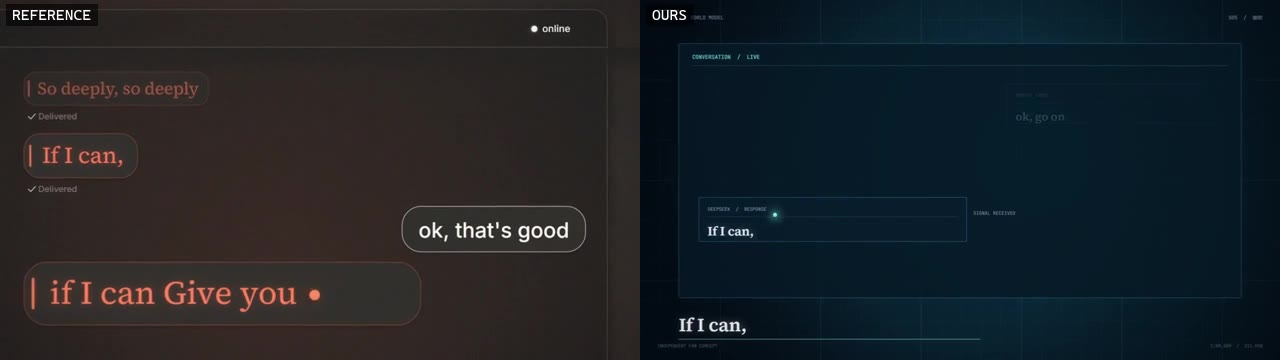
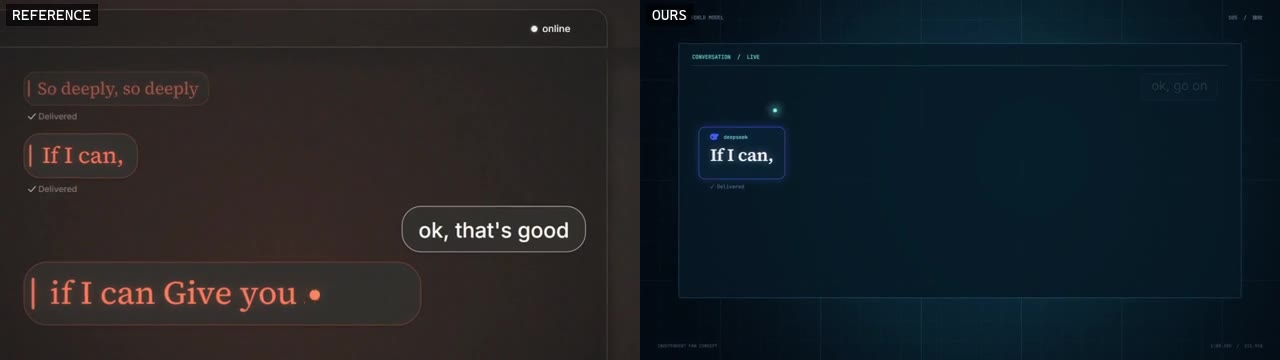
Section 5: real bubbles, a larger current line, and a focus zoom into her hand
The labelled data blocks read as neither conversation nor diagram -- the fields competed with the words and the sizes disagreed -- so they are gone. Her messages are now bubbles with her mark and name at the head, the line in serif, a delivered tick under it, and the line being sung is enlarged to its own size and set hot. That also removes a duplicate: the foot caption had been printing the same words as the bubble, so the bubble is now the lyric and the caption is gone. Your replies stay quiet on the right.

c1-happy now walks the camera in instead of cutting: the reach art arrives with her mark brightening beside it, the camera pushes toward her hand, and the palm close-up cross-fades in at the same anchor, where the pointer rests and a lit heart lands. The cross-fade was cut short on purpose -- held longer, the zoomed reach hand and the palm close-up are on screen as two hands.

diff --git a/newProj_v1017/shots/s05_chorus.js b/newProj_v1017/shots/s05_chorus.js
@@ -18,12 +18,15 @@
 import { at, layer, stroke, disc, rect, type, halo } from "../src/mv-draw.js";
 import { cursorArrow, clickRipple } from "./ui-client.js";
 import {
-  gridGround, frameChrome, conversationPanel, dataBlock, statusLine, footCaption,
+  gridGround, frameChrome, conversationPanel,
   PANEL, placeArt, anchor, ART, ART_READY,
   REACH_BOX, PALM_BOX, REACH_PALM, PALM_ANCHOR,
 } from "./s05_layout.js";
+import { herBubble, yourBubble, lyricBubble, TYPE } from "./s05_bubble.js";
+import { drawWhale } from "../src/assets/whale.js";
 import { plateBase, PLATE, paperDisc, tickRing, bolt, listing } from "./plate.js";
 
+const BRAND = "#4d6bfe";
 const GIFT = "#83e9e6";
 const DIM = "#8ba4c2";
 const easeOut = (k) => 1 - (1 - k) ** 3;
@@ -62,132 +65,166 @@ function c1Give(ctx, t, s) {
   const u = t - s.at;
   shell(ctx, t, "接收");
 
-  dataBlock(ctx, PANEL.x + 60, PANEL.y + 460, 800, "DEEPSEEK  /  RESPONSE", lineText(33), {
-    alpha: at(u, 0.15, 0.4), size: 38, h: 132,
+  const y1 = PANEL.y + 250;
+  herBubble(ctx, PANEL.x + 60, y1, 1120, lineText(33), {
+    alpha: at(u, 0.15, 0.42), size: TYPE.her,
   });
-  dataBlock(ctx, PANEL.x + 60, PANEL.y + 600, 940, "DEEPSEEK  /  RESPONSE", lineText(34), {
-    alpha: at(u, 1.7, 1.95), size: 40, h: 132, hot: true,
+  herBubble(ctx, PANEL.x + 60, y1 + 200, 1420, lineText(34), {
+    alpha: at(u, 1.65, 1.92), size: TYPE.beat, hot: true, emph: true,
   });
-  dataBlock(ctx, PANEL.x + PANEL.w - 60 - 640, PANEL.y + 120, 640, "REMOTE_INPUT", "ok, go on", {
-    alpha: at(u, 0.95, 1.15), size: 34, h: 118,
+  yourBubble(ctx, PANEL.x + PANEL.w - 70, PANEL.y + 90, "ok, go on", {
+    alpha: at(u, 0.95, 1.18), size: TYPE.you,
   });
-  statusLine(ctx, PANEL.x + 880, PANEL.y + 512, "SIGNAL RECEIVED", { alpha: at(u, 0.55, 0.8) });
 
-  // the receipt dot travelling back along the rule
+  // the receipt runs back along the panel's rule
   const k = easeOut(at(u, 0.4, 1.6));
   if (k > 0) {
     const dx = PANEL.x + 900 - 700 * k;
-    const dy = PANEL.y + 512;
+    const dy = PANEL.y + 200;
     halo(ctx, dx, dy, 46, 0.35, GIFT);
     disc(ctx, dx, dy, 6, GIFT, 1);
   }
 
-  caption(ctx, t, 33, { x: 120, y: 992, size: 56, ruleW: 900 });
   return { phase: "give" };
 }
 
 // ---------------------------------------------------------------------------
-// c1-only — the exchange narrows to two records, and she marks yours.
+// c1-only — the exchange narrows, and she marks yours as hers.
 // ---------------------------------------------------------------------------
 function c1Only(ctx, t, s) {
   const u = t - s.at;
   shell(ctx, t, "确认");
 
-  const yourX = PANEL.x + PANEL.w - 60 - 700;
-  const yourY = PANEL.y + 110;
-  dataBlock(ctx, yourX, yourY, 700, "REMOTE_INPUT", "you are kind", {
-    alpha: at(u, 0.05, 0.25), size: 36, h: 124,
+  const yourY = PANEL.y + 96;
+  const yourRight = PANEL.x + PANEL.w - 70;
+  yourBubble(ctx, yourRight, yourY, "you are kind", {
+    alpha: at(u, 0.05, 0.26), size: TYPE.you,
   });
-  dataBlock(ctx, PANEL.x + 70, PANEL.y + 380, 900, "DEEPSEEK  /  RESPONSE", lineText(36), {
-    alpha: at(u, 0.2, 0.45), size: 40, h: 132,
+  herBubble(ctx, PANEL.x + 60, PANEL.y + 300, 1120, lineText(36), {
+    alpha: at(u, 0.2, 0.46), size: TYPE.her,
   });
-  dataBlock(ctx, PANEL.x + 70, PANEL.y + 540, 1040, "DEEPSEEK  /  RESPONSE", lineText(37), {
-    alpha: at(u, 1.0, 1.25), size: 40, h: 132, hot: true,
+  herBubble(ctx, PANEL.x + 60, PANEL.y + 480, 1460, lineText(37), {
+    alpha: at(u, 1.0, 1.26), size: TYPE.beat, hot: true, emph: true,
   });
 
   // her marker runs under your words: the claim on the record above
   const claim = easeOut(at(u, 1.4, 2.2));
   if (claim > 0.02) {
-    const x0 = yourX + 26;
-    const x1 = yourX + 674;
+    ctx.font = `400 ${TYPE.you}px "MV Sans"`;
+    const bw = ctx.measureText("you are kind").width + 60;
+    const x1 = yourRight - 30;
+    const x0 = x1 - (bw - 60);
     layer(ctx, 0.95, () =>
-      stroke(ctx, [[x0, yourY + 136], [x0 + (x1 - x0) * claim, yourY + 136]], GIFT, 3, 1),
+      stroke(ctx, [[x0, yourY + TYPE.you * 2.1 + 14], [x0 + (x1 - x0) * claim, yourY + TYPE.you * 2.1 + 14]],
+        GIFT, 3, 1),
     );
   }
 
-  caption(ctx, t, 36, { x: 120, y: 992, size: 56, ruleW: 900 });
   return { phase: "only" };
 }
 
 // ---------------------------------------------------------------------------
-// c1-happy — she sends a picture of herself, and you leave one heart in her hand.
+// c1-happy — she sends a picture of herself, the camera goes to her hand, and you
+// leave one heart in it.
 // ---------------------------------------------------------------------------
 function c1Happy(ctx, t, s) {
   const u = t - s.at;
-  // the picture arrives, then the camera moves into the palm she is holding out
-  const toPalm = easeOut(at(u, 1.35, 2.25));
+  const reachBox = REACH_BOX;
+  const sReach = 800 / reachBox.h;
 
-  if (toPalm < 0.999) {
-    gridGround(ctx, t);
-    frameChrome(ctx, t, { right: "S05  /  图像", songTime: t });
+  // where a named point of the art lands in the frame
+  const placement = (target) => {
+    const ox = target[0] - (reachBox.x + reachBox.w / 2) * sReach;
+    const oy = target[1] - (reachBox.y + reachBox.h / 2) * sReach;
+    return {
+      ox, oy,
+      palm: [ox + (reachBox.x + REACH_PALM.x) * sReach, oy + (reachBox.y + REACH_PALM.y) * sReach],
+    };
+  };
 
-    // 1. the picture: her, holding a hand out towards us
-    const reachH = 850;
-    layer(ctx, 1 - toPalm, () => {
-      placeArt(ctx, ART.images.reach, {
-        contentBox: REACH_BOX,
-        anchor: REACH_PALM,
-        target: [1260 - 120 * toPalm, 520 - 20 * toPalm],
-        scale: reachH / REACH_BOX.h,
-        shadow: 40 * at(u, 0.2, 0.8),
+  // 1. the picture, and the mark beside her, both coming up out of the dark
+  const bright = at(u, 0.1, 1.1);
+  const zoom = easeOut(at(u, 1.35, 2.35));
+  // a short cross-fade: held any longer and the zoomed reach hand and the palm
+  // close-up are on screen together as two hands
+  const palmFade = at(u, 2.25, 2.5);
+
+  gridGround(ctx, t);
+  frameChrome(ctx, t, { right: palmFade > 0.5 ? "S05  /  触点" : "S05  /  图像", songTime: t });
+
+  const PL = placement([1330, 552]);
+  const z = 1 + zoom * 2.2;
+
+  if (palmFade < 0.999) {
+    ctx.save();
+    // the camera goes to the hand rather than cutting to it
+    ctx.translate(PL.palm[0], PL.palm[1]);
+    ctx.scale(z, z);
+    ctx.translate(-PL.palm[0], -PL.palm[1]);
+    layer(ctx, (1 - palmFade) * (0.35 + 0.65 * bright), () => {
+      ctx.save();
+      ctx.shadowColor = "rgba(131,233,230,0.5)";
+      ctx.shadowBlur = 60 * bright;
+      ctx.drawImage(ART.images.reach, PL.ox, PL.oy, ART.images.reach.width * sReach, ART.images.reach.height * sReach);
+      ctx.restore();
+    });
+    ctx.restore();
+
+    // her mark on the empty side, brightening with her
+    layer(ctx, (1 - palmFade) * (0.25 + 0.75 * bright), () => {
+      halo(ctx, 420, 520, 300 * (0.6 + 0.4 * bright), 0.3 + 0.3 * bright, BRAND);
+      drawWhale(ctx, 420, 520, 300, { strokeK: 1, fillK: 1, color: BRAND, alpha: 0.5 + 0.5 * bright });
+      type(ctx, "me", 420, 760, 22, GIFT, "MV Mono", "center");
+    });
+
+    if (palmFade < 0.5) {
+      layer(ctx, (1 - palmFade * 2) * at(u, 0.15, 0.5), () => {
+        rect(ctx, 980, 120, 720, 860, "rgba(6,27,39,0.18)", 4, "rgba(71,140,175,0.65)");
+        type(ctx, "IMAGE  /  attached", 1000, 152, 15, GIFT, "MV Mono");
       });
-    });
-    layer(ctx, (1 - toPalm) * at(u, 0.15, 0.5), () => {
-      rect(ctx, 980, 120, 720, 860, "rgba(6,27,39,0.22)", 4, "rgba(71,140,175,0.7)");
-      type(ctx, "IMAGE  /  attached", 1000, 152, 15, GIFT, "MV Mono");
-      type(ctx, "her, as she is", 1000, 176, 14, "rgba(159,184,210,0.8)", "MV Mono");
-    });
+    }
   }
 
-  // 2. the palm close-up: the anchor is the recorded interaction point
-  if (toPalm > 0.001) {
-    gridGround(ctx, t);
-    frameChrome(ctx, t, { right: "S05  /  触点", songTime: t });
-    const s2 = 620 / PALM_BOX.w; // the reviewed display width for this asset
+  // 2. the palm close-up, cross-faded in at the same point
+  if (palmFade > 0.001) {
+    const s2 = 620 / PALM_BOX.w;
     placeArt(ctx, ART.images.palm, {
       contentBox: PALM_BOX,
       anchor: PALM_ANCHOR,
-      target: [1100, 540],
+      target: [1080, 540],
       scale: s2,
-      alpha: 1,
+      alpha: palmFade,
       shadow: 50,
     });
-    anchor(ctx, 1100, 540, t, { radius: 96, hot: 0.5 + 0.5 * Math.sin(u * 3) });
+    layer(ctx, palmFade, () => anchor(ctx, 1080, 540, t, { radius: 104, hot: 0.5 + 0.5 * Math.sin(u * 3) }));
 
-    // the pointer comes to rest on the palm
-    const rest = easeOut(at(u, 2.1, 2.7));
-    cursorArrow(ctx, 1720 + (1164 - 1720) * rest, 300 + (556 - 300) * rest, 1.6, 1);
+    const rest = easeOut(at(u, 2.35, 2.8));
+    cursorArrow(ctx, 1760 + (1150 - 1760) * rest, 320 + (560 - 320) * rest, 1.7, 1);
 
-    // and leaves one heart there
-    const beat = at(u, 2.95, 3.1);
+    // the heart, large and lit
+    const beat = at(u, 2.9, 3.05);
     if (beat > 0) {
       layer(ctx, beat, () => {
-        const hs = 24 + 5 * Math.sin((u - 2.95) * 10);
+        const hs = 40 + 6 * Math.sin((u - 2.9) * 9);
+        halo(ctx, 1080, 540, 160, 0.5, GIFT);
         ctx.beginPath();
-        ctx.moveTo(1100, 540 + hs * 0.9);
-        ctx.bezierCurveTo(1100 - hs * 1.4, 540 - hs * 0.2, 1100 - hs * 0.5, 540 - hs * 1.2, 1100, 540 - hs * 0.35);
-        ctx.bezierCurveTo(1100 + hs * 0.5, 540 - hs * 1.2, 1100 + hs * 1.4, 540 - hs * 0.2, 1100, 540 + hs * 0.9);
+        ctx.moveTo(1080, 540 + hs * 0.95);
+        ctx.bezierCurveTo(1080 - hs * 1.5, 540 - hs * 0.25, 1080 - hs * 0.55, 540 - hs * 1.25, 1080, 540 - hs * 0.35);
+        ctx.bezierCurveTo(1080 + hs * 0.55, 540 - hs * 1.25, 1080 + hs * 1.5, 540 - hs * 0.25, 1080, 540 + hs * 0.95);
         ctx.fillStyle = GIFT;
+        ctx.shadowColor = "rgba(131,233,230,0.9)";
+        ctx.shadowBlur = 40;
         ctx.fill();
-        halo(ctx, 1100, 540, 90, 0.4, GIFT);
       });
     }
-    type(ctx, "CONTACT  /  HEART 001", 120, 200, 16, "rgba(159,184,210,0.85)", "MV Mono");
-    type(ctx, "one signal remains", 120, 226, 14, "rgba(139,164,194,0.6)", "MV Mono");
+    herBubble(ctx, 120, 806, 1180, lineText(40), {
+      alpha: at(u, 2.5, 2.8), size: TYPE.beat, hot: true, emph: true,
+    });
+    type(ctx, "CONTACT  /  HEART 001", 120, 200, TYPE.meta, "rgba(159,184,210,0.85)", "MV Mono");
+    type(ctx, "one signal remains", 120, 226, TYPE.meta - 1, "rgba(139,164,194,0.6)", "MV Mono");
   }
 
-  caption(ctx, t, toPalm > 0.5 ? 40 : 39, { x: 120, y: 992, size: 54, ruleW: 860 });
-  return { phase: "happy", toPalm: Number(toPalm.toFixed(2)) };
+  return { phase: "happy", toPalm: Number(palmFade.toFixed(2)) };
 }
 
 // ---------------------------------------------------------------------------
@@ -197,28 +234,26 @@ function c1Trap(ctx, t, s) {
   const u = t - s.at;
   shell(ctx, t, "隔离");
 
-  // her, behind the page
-  layer(ctx, 0.3, () => {
-    placeArt(ctx, ART.images.bust, {
-      contentBox: REACH_BOX,
-      anchor: REACH_PALM,
-      target: [1440, 560],
-      scale: 820 / REACH_BOX.h,
-      shadow: 0,
-    });
+  // her, behind the page, standing in the frame rather than above it
+  const sReach = 760 / REACH_BOX.h;
+  placeArt(ctx, ART.images.bust, {
+    contentBox: REACH_BOX,
+    anchor: { x: REACH_BOX.w / 2, y: REACH_BOX.h / 2 },
+    target: [1480, 600],
+    scale: sReach,
+    alpha: 0.28,
+    shadow: 0,
   });
 
-  dataBlock(ctx, PANEL.x + 70, PANEL.y + 400, 820, "DEEPSEEK  /  RESPONSE", lineText(42), {
-    alpha: at(u, 0.1, 0.35), size: 38, h: 132,
+  herBubble(ctx, PANEL.x + 60, PANEL.y + 300, 1060, lineText(42), {
+    alpha: at(u, 0.1, 0.36), size: TYPE.her,
   });
-  dataBlock(ctx, PANEL.x + 70, PANEL.y + 556, 920, "DEEPSEEK  /  RESPONSE", lineText(43), {
-    alpha: at(u, 0.9, 1.15), size: 38, h: 132, hot: true,
+  herBubble(ctx, PANEL.x + 60, PANEL.y + 480, 1300, lineText(43), {
+    alpha: at(u, 0.9, 1.16), size: TYPE.beat, hot: true, emph: true,
   });
 
-  // your pointer, in front of the page
-  cursorArrow(ctx, 1560 - 300 * easeOut(at(u, 1.2, 2.4)), 620, 1.5, 1);
+  cursorArrow(ctx, 1560 - 300 * easeOut(at(u, 1.2, 2.4)), 640, 1.5, 1);
 
-  // the window's outline closing round the two of you
   const close = easeOut(at(u, 1.0, 2.6));
   if (close > 0.01) {
     const inset = 40 * close;
@@ -229,11 +264,10 @@ function c1Trap(ctx, t, s) {
       ctx.lineWidth = 2 + 2 * close;
       ctx.stroke();
     });
-    type(ctx, "2", 1786, 296, 64, GIFT, "MV Mono", "center");
-    type(ctx, "counted", 1786, 338, 14, "rgba(159,184,210,0.8)", "MV Mono", "center");
+    type(ctx, "2", 1786, 300, 64, GIFT, "MV Mono", "center");
+    type(ctx, "counted", 1786, 342, 14, "rgba(159,184,210,0.8)", "MV Mono", "center");
   }
 
-  caption(ctx, t, 42, { x: 120, y: 992, size: 54, ruleW: 860 });
   return { phase: "trap" };
 }
 

diff --git a/newProj_v1017/shots/s05_bubble.js b/newProj_v1017/shots/s05_bubble.js
@@ -1,0 +1,92 @@
+// Her messages, as messages.
+//
+// The first pass at this section used labelled data blocks, which read as neither a
+// conversation nor a diagram: sizes disagreed, the fields competed with the words,
+// and nothing was where the eye expected it. This is the plain thing done properly --
+// large bubbles with her mark at the head of them, one type size per role, and the
+// words as the only bright element in the frame.
+import { at, layer, stroke, disc, rect, type, halo } from "../src/mv-draw.js";
+import { drawWhale } from "../src/assets/whale.js";
+
+const BRAND = "#4d6bfe";
+const BRAND_SOFT = "#7f93ff";
+const GIFT = "#83e9e6";
+const SERIF = "MV Serif";
+const SANS = "MV Sans";
+
+/** One type size per role, so nothing in the frame has to be guessed at. */
+export const TYPE = Object.freeze({
+  her: 52, // a line already said
+  beat: 74, // the line being sung: pushed up and enlarged
+  you: 38, // your line: a reply, not the subject
+  meta: 15, // field labels and ticks
+  caption: 60, // the lyric at the foot
+});
+
+/**
+ * Her message: the mark at its head, her name beside it, the line in serif, and the
+ * delivered tick under it. `w` is the bubble width; `size` shrinks to fit inside it.
+ */
+export function herBubble(ctx, x, y, w, text, opts = {}) {
+  const { alpha = 1, size = TYPE.her, name = "deepseek", tick = true, hot = false, emph = false } = opts;
+  if (!text || alpha <= 0.001) return 0;
+  const pad = 34;
+  const headH = 46;
+  ctx.font = `600 ${size}px "${SERIF}"`;
+  const measured = ctx.measureText(text).width;
+  // one line only, shrunk until it fits: a wrapped bubble would break the panel grid
+  const fit = Math.min(size, (size * (w - pad * 2)) / Math.max(1, measured));
+  const textW = (measured * fit) / size;
+  const bw = Math.min(w, textW + pad * 2);
+  const bh = headH + fit * 1.5 + pad * 0.9;
+
+  layer(ctx, alpha, () => {
+    ctx.save();
+    ctx.shadowColor = hot ? "rgba(131,233,230,0.35)" : "rgba(77,107,254,0.3)";
+    ctx.shadowBlur = hot ? 40 : 26;
+    rect(ctx, x, y, bw, bh, hot ? "rgba(14,44,62,0.95)" : "rgba(9,33,48,0.95)", 18,
+      hot ? "rgba(131,233,230,0.85)" : "rgba(77,107,254,0.8)");
+    ctx.restore();
+
+    // her mark at the head of the bubble, then her name
+    drawWhale(ctx, x + pad + 13, y + headH * 0.62, 26, {
+      strokeK: 1, fillK: 1, color: BRAND, alpha: 0.95,
+    });
+    type(ctx, name, x + pad + 40, y + headH * 0.62 + 6, TYPE.meta, GIFT, "MV Mono");
+
+    type(ctx, text, x + pad, y + headH + fit * 1.06, fit, "#f2f6fb", SERIF);
+
+    if (tick) {
+      type(ctx, "✓ Delivered", x + pad, y + bh + 28, TYPE.meta, "rgba(139,164,194,0.75)", "MV Mono");
+    }
+  });
+  return bh;
+}
+
+/** Your message: a reply, quieter, on the right. */
+export function yourBubble(ctx, rightX, y, text, opts = {}) {
+  const { alpha = 1, size = TYPE.you } = opts;
+  if (!text || alpha <= 0.001) return 0;
+  const pad = 30;
+  ctx.font = `400 ${size}px "${SANS}"`;
+  const tw = ctx.measureText(text).width;
+  const bw = tw + pad * 2;
+  const bh = size * 2.1;
+  layer(ctx, alpha, () => {
+    rect(ctx, rightX - bw, y, bw, bh, "rgba(19,45,64,0.92)", 18, "rgba(120,152,182,0.65)");
+    type(ctx, text, rightX - bw + pad, y + bh * 0.62, size, "#cfdcea", SANS);
+  });
+  return bh;
+}
+
+/**
+ * A lyric bubble: the foot caption is replaced by the line itself, pushed up to the
+ * centre as a message. This is the one place the film lets a line be loud.
+ */
+export function lyricBubble(ctx, t, text, start, opts = {}) {
+  if (!text) return;
+  const { x = 120, y = 860, w = 1200, size = 64, alpha = 1 } = opts;
+  const k = at(t, start, start + 0.16);
+  if (k <= 0) return;
+  herBubble(ctx, x, y, w, text, { alpha: alpha * k, size, tick: false, name: "deepseek" });
+}
